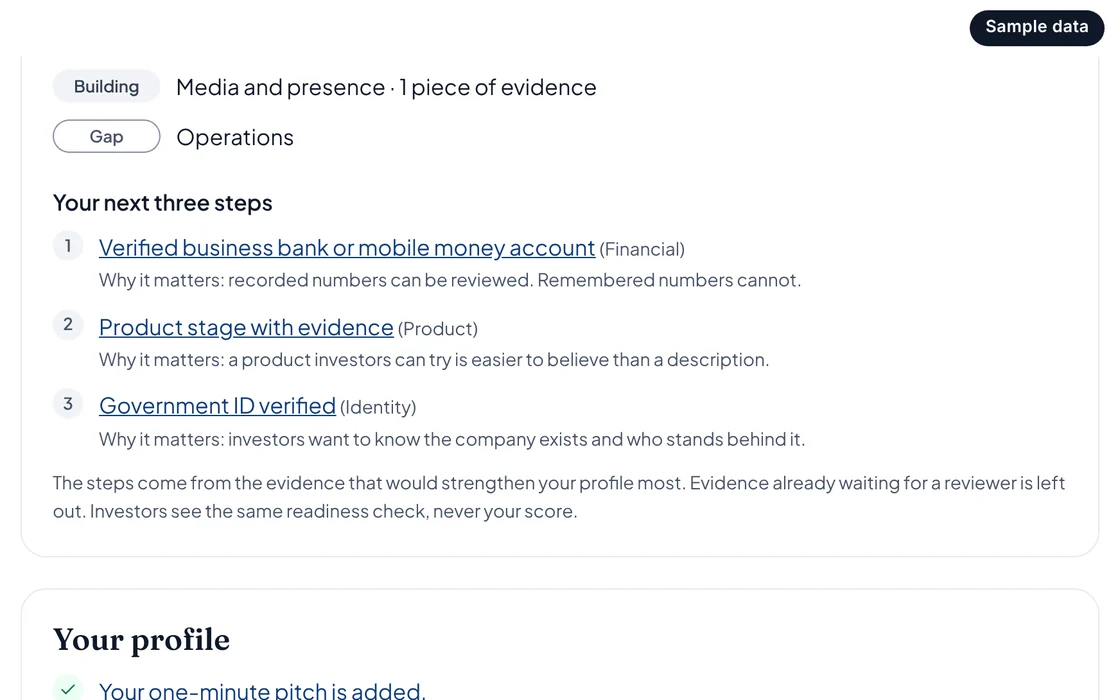
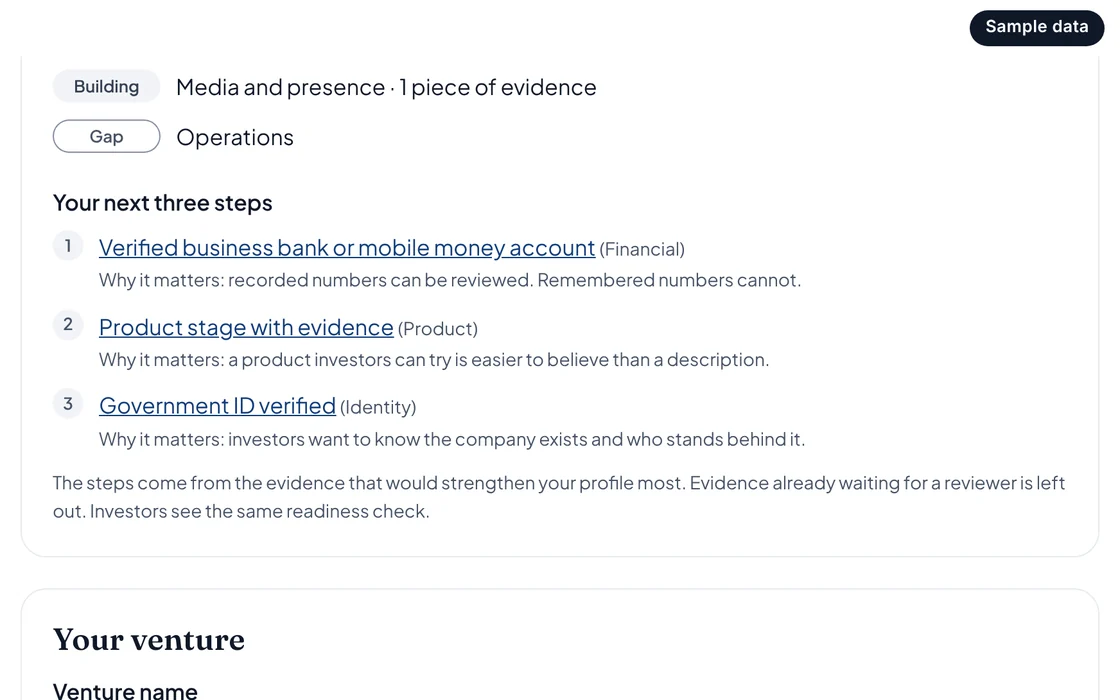
Reconcile the website and the app
The website and the legal pages described features the app does not have.
The owner approved the reconciliation on 17 October 2026.

App:
- The founder's score card is removed from the dashboard.
- The conversation page links to an email report to info@ikonetu.com,
  with the conversation's reference filled in.
- Onboarding offers two optional choices, evidence checks and
  notifications. The registry and bank checks are not built.
- The sign-in and onboarding hints describe what happens.

Website, regenerated from the design boards:
- The terms and the questions page describe editing, hiding and
  deletion on request.
- The privacy policy names Render and Supabase as the only
  sub-processors and describes email sign-in only.
- The cookie, trust, momentum and pitch wording matches the app.
- The picture of the next three steps is captured again.

docs/DECISIONS.md records the change, and an open question: nothing
enforces the evidence consent.

Checked: typecheck, 156 unit tests, the build, and the browser suites
against the local stand-in (admin 42 of 42, product 78 of 78,
resilience 12 of 12).

Claude-Session: https://claude.ai/code/session_01UKj4k9EqpmTAUqyfVjLjqH

Changed region(s): [[0.0312, 0.96, 0.375, 1.0], [0.375, 0.72, 0.5312, 0.75], [0.0938, 0.9, 0.2188, 0.93]]

diff --git a/apps/web/components/site/views/privacy.view.tsx b/apps/web/components/site/views/privacy.view.tsx
@@ -146,7 +146,7 @@ export function PrivacyView() {
                     </tr>
                     <tr>
                       <td>
-                        Service improvement and analytics
+                        Service improvement
                       </td>
                       <td>
                         Consent and/or legitimate interests
@@ -181,25 +181,13 @@ export function PrivacyView() {
                 6. International transfers
               </h2>
               <p>
-                {"If personal data is transferred outside the UK, we will use appropriate safeguards, such as the UK International Data Transfer Addendum, standard contractual clauses or another lawful transfer mechanism. Current hosting and sub-processors: Render (hosting, in Frankfurt, Germany), "}
-                <span className="ph">
-                  [VIDEO PROVIDER]
-                </span>
-                {", "}
-                <span className="ph">
-                  [ANALYTICS PROVIDER]
-                </span>
-                {", "}
-                <span className="ph">
-                  [EMAIL PROVIDER]
-                </span>
-                , Stripe (payments).
+                If personal data is transferred outside the UK, we will use appropriate safeguards, such as the UK International Data Transfer Addendum, standard contractual clauses or another lawful transfer mechanism. Current hosting and sub-processors: Render (hosting, in Frankfurt, Germany) and Supabase (sign-in and sign-in emails, the database, and stored files, including pitch videos and evidence documents). IkonetU uses no analytics or payment provider.
               </p>
               <h2 className="doc-h2">
                 7. Retention
               </h2>
               <p>
-                We retain personal data only for as long as necessary for the purposes described in this policy. Account data: while your account is active and for one year afterwards. Founder profile and pitch data: while your profile is active and for one year after deletion. Introduction records: one year. Support communications: one year. Security and fraud records: one year. Legal and accounting records: as required by law.
+                We retain personal data only for as long as necessary for the purposes described in this policy. Account data: while your account is active and for one year after it is closed. Founder profile and pitch data: while your profile is active and for one year after deletion. Accounts are closed and profiles deleted on request: write to privacy@ikonetu.com. Introduction records: one year. Support communications: one year. Security and fraud records: one year. Legal and accounting records: as required by law.
               </p>
               <h2 className="doc-h2">
                 8. Your rights
@@ -215,7 +203,7 @@ export function PrivacyView() {
                 9. Security
               </h2>
               <p>
-                We use technical and organisational measures appropriate to the risk, including access controls, encryption in transit, secure hosting and monitoring. No online platform can guarantee complete security. IkonetU signs you in with a one-time code sent to your email address or phone, so there is no password to choose. You should keep access to that email account or phone secure.
+                We use technical and organisational measures appropriate to the risk, including access controls, encryption in transit, secure hosting and monitoring. No online platform can guarantee complete security. IkonetU signs you in with a one-time link or code sent to your email address, so there is no password to choose. You should keep access to that email account secure. Sign-in by phone is not available yet.
               </p>
               <h2 className="doc-h2">
                 10. Children

diff --git a/apps/web/app/dashboard/page.tsx b/apps/web/app/dashboard/page.tsx
@@ -14,16 +14,13 @@ import { VentureForm } from "./venture-form";
 export const metadata: Metadata = { title: "Your dashboard", robots: { index: false } };
 export const dynamic = "force-dynamic";
 
-const LEAGUE_NAME = { EARLY: "Early", RISING: "Rising", INVESTABLE: "Investable", ELITE: "Elite" } as const;
-
 export default async function DashboardPage() {
   const { supabase, user, profile, venture } = await requireFounder();
-  const [pitch, evidence, updates, requests, score] = await Promise.all([
+  const [pitch, evidence, updates, requests] = await Promise.all([
     supabase.from("pitches").select("duration_seconds, updated_at").eq("venture_id", venture.id).maybeSingle(),
     supabase.from("evidence").select("id, signal_code, status, lane, expires_at, item_count, months, revenue_usd, stage").eq("venture_id", venture.id),
     supabase.from("venture_updates").select("created_at").eq("venture_id", venture.id).order("created_at", { ascending: false }).limit(1),
     supabase.from("introductions").select("id").eq("founder_id", user.id).eq("status", "pending"),
-    supabase.from("scores").select("total, league").eq("venture_id", venture.id).maybeSingle(),
   ]);
   // The readiness check reads the evidence the way investors see it, so the two always agree.
   const shown = await supabase.rpc("venture_evidence", { p_venture: venture.id });
@@ -136,10 +133,17 @@ export default async function DashboardPage() {
             )}
             <p className="small" style={{ margin: "12px 0 0" }}>
               The steps come from the evidence that would strengthen your profile most. Evidence already waiting for a reviewer is left
-              out. Investors see the same readiness check, never your score.
+              out. Investors see the same readiness check.
             </p>
           </section>
 
+          <section className="card" aria-labelledby="venture-h">
+            <h2 id="venture-h" className="app-h2">Your venture</h2>
+            <VentureForm venture={venture} />
+          </section>
+        </div>
+
+        <aside className="stack" aria-label="Your profile">
           <section className="card" aria-labelledby="todo-h">
             <h2 id="todo-h" className="app-h2">Your profile</h2>
             <ul className="todo">
@@ -155,29 +159,6 @@ export default async function DashboardPage() {
                 label={lastUpdate ? `Last progress update: ${activityText(lastUpdate, now).replace("Updated ", "")}.` : "Post your first progress update."}
               />
             </ul>
-          </section>
-
-          <section className="card" aria-labelledby="venture-h">
-            <h2 id="venture-h" className="app-h2">Your venture</h2>
-            <VentureForm venture={venture} />
-          </section>
-        </div>
-
-        <aside className="stack" aria-label="Your score">
-          <section className="card" aria-labelledby="score-h">
-            <h2 id="score-h" className="app-h2">IkonetU Score</h2>
-            {score.data ? (
-              <p className="body2">
-                <strong style={{ fontSize: 36, color: "#101828" }}>{score.data.total.toLocaleString("en-GB")}</strong> of 1,000 ·{" "}
-                {LEAGUE_NAME[score.data.league as keyof typeof LEAGUE_NAME]} league
-              </p>
-            ) : (
-              <p className="body2">You have no score yet. Your score starts when your first piece of evidence is approved.</p>
-            )}
-            <p className="small" style={{ margin: "12px 0 0" }}>
-              Only you and IkonetU staff see your score. Investors see your evidence by area and its status, never a score or a
-              league.
-            </p>
           </section>
         </aside>
       </div>

diff --git a/apps/web/components/site/views/founders.view.tsx b/apps/web/components/site/views/founders.view.tsx
@@ -61,7 +61,7 @@ export function ForFoundersView({ v }: { v: ForFoundersVals }) {
                     Upload your one-minute pitch
                   </h3>
                   <p className="body2">
-                    Explain what you are building and why now, and type what you say. The captions are made from it.
+                    Explain what you are building and why now, in about a minute and no more than 90 seconds. Type what you say, and the captions are made from it.
                   </p>
                 </li>
                 <li className="c3" style={{ display: "flex", flexDirection: "column", gap: "12px" }}>
@@ -368,9 +368,9 @@ export function ForFoundersView({ v }: { v: ForFoundersVals }) {
                     </span>
                     <span>
                       <strong style={{ fontWeight: "600" }}>
-                        A meaningful update
+                        A progress update
                       </strong>
-                      {" adds or changes evidence, a metric, a milestone or a product release. Edits to wording or photographs do not count."}
+                      {" is a short note on what changed, such as a new customer, a metric, a milestone or a product release. Momentum counts every update and every piece of evidence added, and a change to the pitch counts as recent activity."}
                     </span>
                   </li>
                   <li>

diff --git a/apps/web/app/introductions/[id]/page.tsx b/apps/web/app/introductions/[id]/page.tsx
@@ -32,6 +32,11 @@ export default async function ConversationPage({ params }: { params: Promise<{ i
     .limit(500);
   const investorLine = `${i.investor_name}, ${INVESTOR_TYPE_NAME[i.investor_type] ?? i.investor_type}${i.investor_firm ? `, ${i.investor_firm}` : ""}`;
   const who = (sender: string) => (sender === user.id ? "You" : sender === i.founder_id ? i.founder_name : i.investor_name);
+  // A report goes by email to the address the trust and safety page gives, until IkonetU has its own sender.
+  const report = `mailto:info@ikonetu.com?${new URLSearchParams({
+    subject: `Report about conversation ${i.id}`,
+    body: `Conversation reference: ${i.id}\n\nWhat happened:\n`,
+  }).toString().replace(/\+/g, "%20")}`;
 
   return (
     <AppShell role={iAmFounder ? "founder" : "investor"} current={iAmFounder ? "introductions" : "requests"}>
@@ -72,6 +77,10 @@ export default async function ConversationPage({ params }: { params: Promise<{ i
             </p>
           </>
         )}
+        <p className="small" style={{ margin: 0 }}>
+          If anything here makes you uncomfortable, <a href={report}>report this conversation to IkonetU</a>. Your email program
+          opens with the conversation&apos;s reference filled in.
+        </p>
       </div>
     </AppShell>
   );

diff --git a/apps/web/lib/account.ts b/apps/web/lib/account.ts
@@ -13,13 +13,13 @@ export const STAGES = [
 /**
  * The consents a founder gives before any data is processed (PRD A-4, SRD SEC-D4).
  * The profile is needed to run the account, so it is required. The others are
- * optional toggles, and each answer is recorded, including a no.
+ * optional toggles, and each answer is recorded, including a no. Consents for
+ * registry lookups and bank statements return when those checks exist; the
+ * database still accepts them (migration 20261005000001).
  */
 export const OPTIONAL_CONSENTS = [
-  { code: "evidence_processing", label: "Check the evidence I submit, by AI and by a reviewer" },
-  { code: "registry_check", label: "Look up my company in the official registry" },
-  { code: "bank_check", label: "Read my business bank statements when I connect an account" },
-  { code: "notifications", label: "Send me notifications about my evidence, rounds and introductions" },
+  { code: "evidence_processing", label: "Check the evidence I submit. An IkonetU reviewer compares it with its source" },
+  { code: "notifications", label: "Send me notifications about my evidence and introductions. IkonetU does not send them yet" },
 ] as const;
 
 type ConsentCode = "profile" | (typeof OPTIONAL_CONSENTS)[number]["code"];

diff --git a/apps/web/components/site/views/cookies.view.tsx b/apps/web/components/site/views/cookies.view.tsx
@@ -68,7 +68,7 @@ export function CookiesView() {
                 <strong>
                   Cookies we use.
                 </strong>
-                {" Strictly necessary cookies keep you signed in and support security: a session cookie set by IkonetU's sign-in provider, and a short-lived cookie that holds your email address or phone number while you enter your sign-in code. A preference item in your browser's local storage remembers whether you chose the founder path or the investor path. IkonetU does not use analytics or marketing cookies."}
+                {" Strictly necessary cookies keep you signed in and support security: a session cookie set by IkonetU's sign-in provider, and a short-lived cookie that holds your email address while you complete sign-in. A preference item in your browser's local storage remembers whether you chose the founder path or the investor path. IkonetU does not use analytics or marketing cookies."}
               </p>
               <p>
                 <strong>

diff --git a/apps/web/components/site/views/questions.view.tsx b/apps/web/components/site/views/questions.view.tsx
@@ -172,7 +172,7 @@ export function QuestionsView() {
                   </span>
                 </summary>
                 <p>
-                  You can edit or remove your profile and pitch where the platform allows. IkonetU may keep some information where the law, security, fraud prevention or a dispute requires it. Account data is kept for one year after the account closes, and profile and pitch data for one year after the profile is deleted.
+                  {"You can edit your venture's details, hide your profile from investors at any time, and replace or remove your pitch. To delete your account and its data, write to privacy@ikonetu.com. IkonetU may keep some information where the law, security, fraud prevention or a dispute requires it. Account data is kept for one year after the account closes, and profile and pitch data for one year after the profile is deleted."}
                 </p>
               </details>
               <details>

diff --git a/apps/web/lib/account.test.ts b/apps/web/lib/account.test.ts
@@ -26,7 +26,7 @@ const VALID = {
   instagram: "https://instagram.com/learnloop",
   confirmedAdult: "on",
   acceptedPrivacy: "on",
-  consent_registry_check: "on",
+  consent_evidence_processing: "on",
 };
 
 describe("emailSignInSchema", () => {
@@ -95,9 +95,7 @@ describe("parseOnboarding", () => {
         },
         consents: [
           { consent_type: "profile", granted: true, policy_version: PRIVACY_VERSION },
-          { consent_type: "evidence_processing", granted: false, policy_version: PRIVACY_VERSION },
-          { consent_type: "registry_check", granted: true, policy_version: PRIVACY_VERSION },
-          { consent_type: "bank_check", granted: false, policy_version: PRIVACY_VERSION },
+          { consent_type: "evidence_processing", granted: true, policy_version: PRIVACY_VERSION },
           { consent_type: "notifications", granted: false, policy_version: PRIVACY_VERSION },
         ],
         venture: {

diff --git a/apps/web/components/site/views/trust.view.tsx b/apps/web/components/site/views/trust.view.tsx
@@ -176,7 +176,7 @@ export function TrustView() {
                       <Icon name="lock" size={20} />
                     </span>
                     <span>
-                      Reviewers see the documents they review, and only for the review.
+                      Only IkonetU reviewers and admins can open the documents, through links that last five minutes.
                     </span>
                   </li>
                 </ul>
@@ -213,7 +213,7 @@ export function TrustView() {
                       <Icon name="flag" size={20} />
                     </span>
                     <span>
-                      Either side can report a conversation that makes them uncomfortable.
+                      Either side can report a conversation to IkonetU from the conversation page.
                     </span>
                   </li>
                 </ul>

diff --git a/apps/web/components/site/views/terms.view.tsx b/apps/web/components/site/views/terms.view.tsx
@@ -172,7 +172,7 @@ export function TermsView() {
                 <strong>
                   7. Removal.
                 </strong>
-                {" You may edit or remove your profile and pitch where the Platform allows. We may retain certain information where required for legal, security, fraud-prevention or dispute-resolution purposes."}
+                {" You may edit your venture's details, hide your profile from investors, and replace or remove your pitch. To delete your account and its data, write to privacy@ikonetu.com. We may retain certain information where required for legal, security, fraud-prevention or dispute-resolution purposes."}
               </p>
             </div>
           </section>

diff --git a/apps/web/app/onboarding/founder-form.tsx b/apps/web/app/onboarding/founder-form.tsx
@@ -122,7 +122,7 @@ export function OnboardingForm({ askAdult }: { askAdult: boolean }) {
 
       <fieldset className="field">
         <legend>Your choices</legend>
-        <p className="hint">Each of these is optional, and you can change it later. A check only runs when you have said yes to it.</p>
+        <p className="hint">Each of these is optional. To change an answer later, write to privacy@ikonetu.com.</p>
         {OPTIONAL_CONSENTS.map((c) => (
           <label key={c.code} className="check">
             <input type="checkbox" name={`consent_${c.code}`} /> <span>{c.label}</span>

diff --git a/apps/web/app/signin/signin-form.tsx b/apps/web/app/signin/signin-form.tsx
@@ -39,7 +39,7 @@ export function SignInForm({ phoneEnabled }: { phoneEnabled: boolean }) {
           <label htmlFor="s-email">Email</label>
           <input id="s-email" name="email" className="input" type="email" autoComplete="email" required maxLength={160} defaultValue={values.email} {...invalid("email")} />
           {err("email")}
-          <p className="hint">We send a 6-digit code to this email. You do not need a password.</p>
+          <p className="hint">We send a sign-in email with a link or a 6-digit code. You do not need a password.</p>
         </div>
       )}
 
